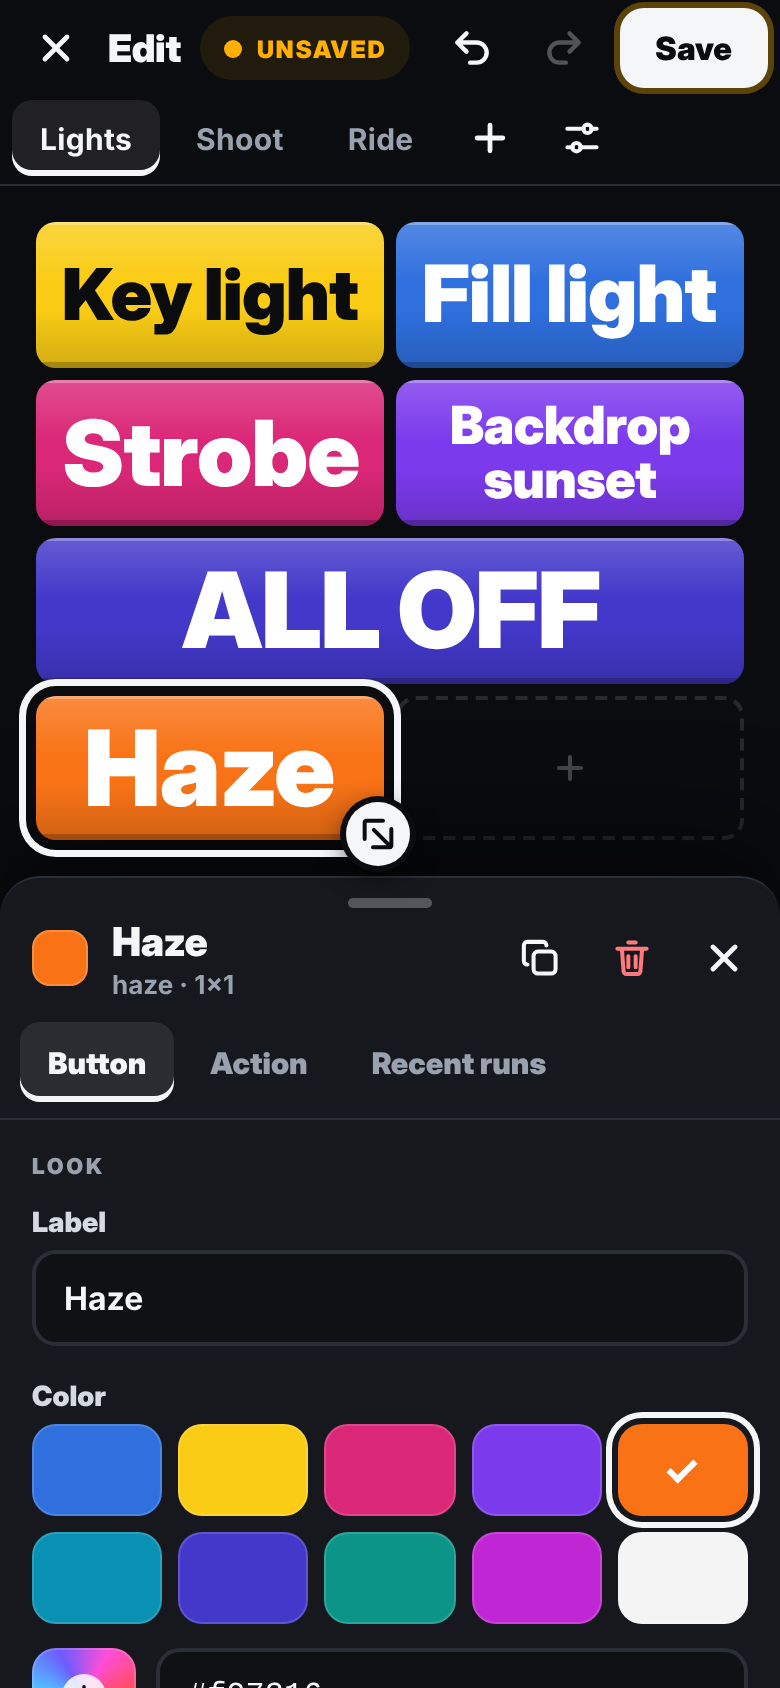
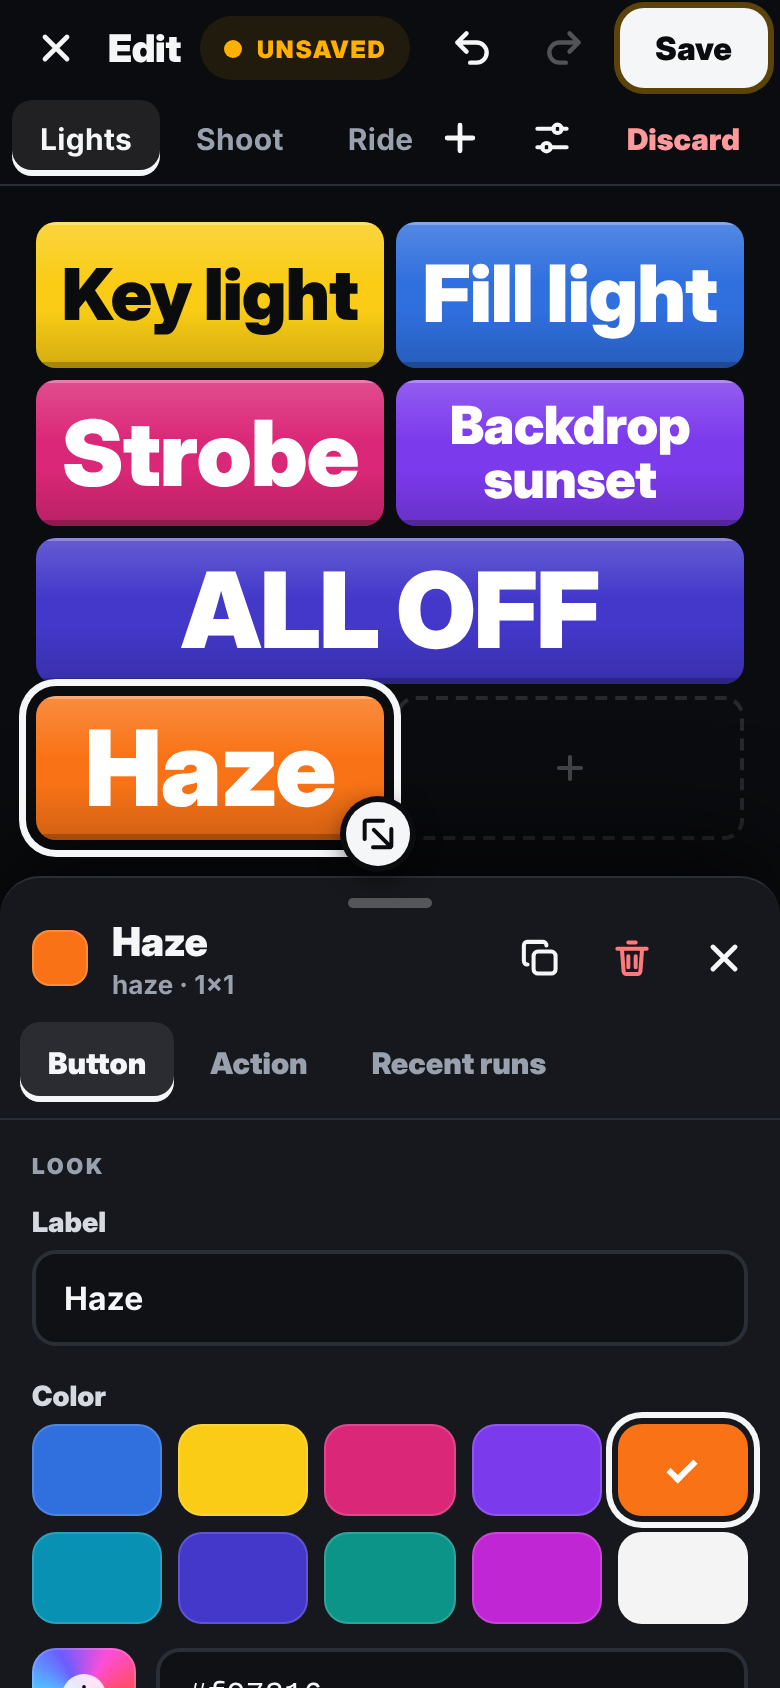
Edit mode: fix adversarial review findings
Verified checkpoint: typecheck clean, 212 bun tests, 213 Playwright tests.

- 3-way merge (per pad/button, identity-tracked) for host config changes and 409 conflicts;
  auto-merges one-sided changes as one undoable step, per-item mine/theirs for true conflicts
- Draft persisted per host on the device; restore offered (merged against the current host config)
- Lost save responses and lagging-socket echoes recognized; PUT timeout with landed-check
- Host refuses (409) to overwrite a config file that changed, valid or not, unless force:true;
  re-checked right before rename
- Saving asks before it stops running buttons; running badges on the edit canvas
- New ids never reuse host ids; Save & run for unsaved buttons; shell<->program conversion that
  round-trips; env names validated in the schema; empty-arg warnings
- Destructive dialogs default to Cancel; discard undoable; key capture passes Cmd+S through

Claude-Session: https://claude.ai/code/session_01VFJgEf5Cb9vrKjmXAa6S2c

diff --git a/src/web/edit/EditMode.tsx b/src/web/edit/EditMode.tsx
@@ -56,11 +56,18 @@ const hasActions = (c: WireConfig): c is Config => c.pads.every((p) => p.buttons
 
 /** Compares configs as the host keeps them ($schema is the host's business). */
 const keyOf = ({ $schema: _s, ...c }: WireConfig) => stable(c);
+const problemCount = (c: Config) => {
+  const r = parseConfig(c);
+  return r.ok ? 0 : r.errors.length;
+};
 
-/** Revs remembered as old news (own saves, merged, seen). */
-const KNOWN_MAX = 64;
-/** A config fetched over HTTP is ahead of a lagging socket: what the socket says until it catches up is older. */
-const AHEAD_MS = 15_000;
+/** This session's own saves remembered (their echoes over the socket are not news). */
+const OWN_MAX = 32;
+/**
+ * The host's state learned over HTTP (a save's answer, a fetch) the socket hasn't delivered yet:
+ * what a lagging socket says until it gets there is older news. Waited for at most this long.
+ */
+const CATCH_UP_MS = 15_000;
 
 export function EditMode(p: EditModeProps) {
   const role = useStore(p.backend.snapshot, (s) => s.role);
@@ -140,17 +147,44 @@ function Session({ backend, padId, onExit }: EditModeProps) {
   const inFlight = useRef(false);
   /** Last snapshot rev looked at: only *changes* of the host config matter. */
   const seen = useRef(backend.snapshot.get().rev);
-  /** Revs that are old news: this session's saves (their echoes), configs merged or adopted. */
-  const known = useRef(new Set<string>(backend.snapshot.get().rev ? [backend.snapshot.get().rev!] : []));
+  /** Revs of this session's saves, oldest first: their echoes over the socket (late, or several) are not news. */
+  const own = useRef(new Set<string>());
+  const addOwn = (rev: string) => {
+    const o = own.current;
+    o.delete(rev);
+    o.add(rev);
+    while (o.size > OWN_MAX) o.delete(o.values().next().value!);
+  };
   /** Saves with no answer (timeout, dropped link): they may still turn up on the host. */
   const unsure = useRef<{ config: Config; key: string }[]>([]);
-  /** A rev fetched over HTTP the socket hasn't delivered yet (see AHEAD_MS). */
-  const ahead = useRef<{ rev: string; timer: ReturnType<typeof setTimeout> } | null>(null);
-  const noteRev = (rev: string) => {
-    const k = known.current;
-    k.delete(rev);
-    k.add(rev);
-    while (k.size > KNOWN_MAX) k.delete(k.values().next().value!);
+  /** Revs the socket delivered lately, newest last (seen as they come: renders may skip some). */
+  const recent = useRef<string[]>(backend.snapshot.get().rev ? [backend.snapshot.get().rev!] : []);
+  /** A rev learned over HTTP the socket hasn't delivered yet (see CATCH_UP_MS). */
+  const catchUp = useRef<{ rev: string; reached: boolean; timer: ReturnType<typeof setTimeout> } | null>(null);
+  useEffect(
+    () =>
+      backend.snapshot.subscribe((s) => {
+        const r = recent.current;
+        if (!s.rev || r.at(-1) === s.rev) return;
+        r.push(s.rev);
+        if (r.length > 32) r.shift();
+        if (catchUp.current?.rev === s.rev) catchUp.current.reached = true;
+      }),
+    [],
+  );
+  /** The host is at `rev` (we know it over HTTP): until the socket gets there, what it says is older. */
+  const awaitSocket = (rev: string) => {
+    clearTimeout(catchUp.current?.timer);
+    catchUp.current = null;
+    if (backend.snapshot.get().rev === rev || recent.current.includes(rev)) return;
+    catchUp.current = {
+      rev,
+      reached: false,
+      timer: setTimeout(() => {
+        catchUp.current = null;
+        syncHost();
+      }, CATCH_UP_MS),
+    };
   };
 
   // ---- the draft kept on this device ------------------------------------------------------
@@ -165,7 +199,7 @@ function Session({ backend, padId, onExit }: EditModeProps) {
   const keeping = useRef(!stored);
   useEffect(() => {
     const off = ed.store.subscribe(() => keeping.current && keeper.update(ed));
-    return () => (off(), keeper.dispose(), clearTimeout(ahead.current?.timer));
+    return () => (off(), keeper.dispose(), clearTimeout(catchUp.current?.timer));
   }, []);
 
   const draft = st.draft;
@@ -211,7 +245,8 @@ function Session({ backend, padId, onExit }: EditModeProps) {
 
   /** Our save is on the host as `rev` (its answer, or found there). */
   const landed = (sent: Config, rev: string) => {
-    noteRev(rev);
+    addOwn(rev);
+    awaitSocket(rev);
     unsure.current = [];
     setHostNow({ rev, config: sent });
     ed.saved(sent, rev);
@@ -220,29 +255,34 @@ function Session({ backend, padId, onExit }: EditModeProps) {
     setShowProblems(false);
   };
 
-  /** Fresh news from HTTP (the socket may be behind it). */
+  /** Fresh news over HTTP (the socket may be behind it). */
   const learn = (config: Config, rev: string) => {
-    noteRev(rev);
+    awaitSocket(rev);
     setHostNow({ rev, config });
-    clearTimeout(ahead.current?.timer);
-    ahead.current = null;
-    if (backend.snapshot.get().rev !== rev)
-      ahead.current = {
-        rev,
-        timer: setTimeout(() => {
-          ahead.current = null;
-          syncHost();
-        }, AHEAD_MS),
-      };
+  };
+
+  /** The host's config now, over HTTP. If the socket brought news meanwhile, ask once more: which is newer can't be told. */
+  const fetchHost = async () => {
+    for (let i = 0; ; i++) {
+      const before = backend.snapshot.get().rev;
+      const got = await backend.getConfig();
+      const after = backend.snapshot.get().rev;
+      if (i > 0 || after === before || after === got.rev) return got;
+    }
   };
 
   const applyMerge = (res: MergeResult, theirs: Config, rev: string) => {
-    noteRev(rev);
+    const before = problemCount(ed.state.draft);
     ed.applyMerge(res, theirs, rev);
     setMerging(null);
     setDismissed(null);
     const n = res.taken;
-    undoable(n ? `Merged ${n} change${n === 1 ? '' : 's'} from the host` : "Your draft is now based on the host's latest config");
+    // Both sides fine on their own can still clash (two new buttons on one square): say so.
+    const added = problemCount(res.config) - before;
+    undoable(
+      (n ? `Merged ${n} change${n === 1 ? '' : 's'} from the host` : "Your draft is now based on the host's latest config") +
+        (added > 0 ? `: ${added} problem${added === 1 ? '' : 's'} to fix` : ''),
+    );
   };
 
   /** The host's config is `theirs` now, and it's news: follow it, or merge it into unsaved changes. */
@@ -263,19 +303,23 @@ function Session({ backend, padId, onExit }: EditModeProps) {
     return unsure.current.find((u) => u.key === k);
   };
 
-  const busy = () => inFlight.current || !!merging || !!conflict || !!ask || !!stored;
+  /** A dialog is up: host changes wait until it's closed. A ref: timers and async steps call syncHost too. */
+  const dialogUp = useRef(false);
+  dialogUp.current = !!(merging || conflict || ask || stored);
+  const busy = () => inFlight.current || dialogUp.current;
   const syncHost = () => {
     if (busy()) return; // decided once that is over
     const s = backend.snapshot.get();
     if (!s.rev || !s.config || !hasActions(s.config) || s.rev === seen.current) return;
-    if (ahead.current) {
-      if (s.rev !== ahead.current.rev) return; // the socket still catching up: older than what we have
-      clearTimeout(ahead.current.timer);
-      ahead.current = null;
+    const c = catchUp.current;
+    if (c) {
+      if (!c.reached) return; // the socket hasn't got to what we know over HTTP yet: what it says is older
+      clearTimeout(c.timer);
+      catchUp.current = null;
     }
     seen.current = s.rev;
-    if (known.current.has(s.rev)) return; // our own save coming back, or already merged
-    noteRev(s.rev);
+    // In step, or our own save coming back (late, or one of several).
+    if (s.rev === ed.state.baseRev || own.current.has(s.rev)) return;
     const mine = ours(s.config);
     if (mine) {
       landed(mine.config, s.rev);
@@ -291,7 +335,7 @@ function Session({ backend, padId, onExit }: EditModeProps) {
   const startMerge = async () => {
     let got: { config: WireConfig; rev: string };
     try {
-      got = await backend.getConfig();
+      got = await fetchHost();
     } catch (e) {
       say(`Couldn't get the host's config: ${e instanceof Error ? e.message : String(e)}`, { tone: 'bad' });
       return;
@@ -351,7 +395,7 @@ function Session({ backend, padId, onExit }: EditModeProps) {
   const check = async (sent: Config): Promise<'sent' | 'older' | null> => {
     let got: { config: WireConfig; rev: string };
     try {
-      got = await backend.getConfig();
+      got = await fetchHost();
     } catch {
       return null;
     }
@@ -424,8 +468,8 @@ function Session({ backend, padId, onExit }: EditModeProps) {
   const overwrite = async (c: { rev: string; opts: SaveOpts }) => {
     setConflict(null);
     try {
-      const now = await backend.getConfig();
-      if (now.rev !== c.rev && !known.current.has(now.rev)) return setConflict({ rev: now.rev, again: true, opts: c.opts });
+      const now = await fetchHost();
+      if (now.rev !== c.rev && !own.current.has(now.rev)) return setConflict({ rev: now.rev, again: true, opts: c.opts });
     } catch {
       /* can't tell: the save says */
     }
@@ -436,12 +480,14 @@ function Session({ backend, padId, onExit }: EditModeProps) {
     setModal(null);
     let to = { config: hostNowRef.current.config, rev: hostNowRef.current.rev };
     try {
-      const got = await backend.getConfig();
+      const got = await fetchHost();
       if (hasActions(got.config)) (learn(got.config, got.rev), (to = { config: got.config, rev: got.rev }));
     } catch {
       /* offline: back to the last known host config */
     }
     ed.discard(to.config, to.rev);
+    // A save of the thrown-away draft turning up later is news then, not "saved".
+    unsure.current = [];
     setHostErrors(null);
     setSaveError(null);
     deselect();

diff --git a/e2e/edit-sync.spec.ts b/e2e/edit-sync.spec.ts
@@ -169,6 +169,35 @@ test("two quick saves on a lagging socket: their late echoes aren't news (no rev
   expect(labels()).toEqual(['Lamp v3', 'Boom v2', 'Record']);
 });
 
+test('a hand edit undone again (the file back to the very same bytes) is followed too, with or without unsaved changes', async ({ page, hasTouch }) => {
+  await edit(page);
+  const before = readFileSync(host.configPath, 'utf8');
+  handEdit((c) => (c.pads[0]!.buttons[1]!.label = 'Boom (typo)'));
+  await expect(item(page, 'boom')).toContainText('Boom (typo)');
+  writeFileSync(host.configPath, before);
+  await expect(item(page, 'boom')).not.toContainText('typo');
+  await relabel(page, hasTouch, 'lamp', 'Mine');
+  handEdit((c) => (c.pads[0]!.buttons[1]!.label = 'Boom (typo)'));
+  await expect(item(page, 'boom')).toContainText('Boom (typo)');
+  writeFileSync(host.configPath, before);
+  await expect(item(page, 'boom')).not.toContainText('typo');
+  await expect(page.getByTestId('field-label')).toHaveValue('Mine');
+  await page.getByTestId('edit-save').click();
+  await expect(status(page)).toHaveAttribute('data-state', 'clean');
+  expect(labels()).toEqual(['Mine', 'Boom', 'Record']);
+});
+
+test('two new buttons on one square (mine, and one added by hand) merge, and the clash is pointed out', async ({ page, hasTouch }) => {
+  await edit(page);
+  await tap(page, hasTouch, 'cell-0-1');
+  await page.getByTestId('field-label').fill('Mine');
+  handEdit((c) => c.pads[0]!.buttons.push({ id: 'theirs', label: 'Theirs', x: 0, y: 1, action: { type: 'shell', script: 'echo theirs' } }));
+  await expect(page.getByTestId('toast')).toContainText('Merged 1 change from the host: 1 problem to fix');
+  await expect(item(page, 'theirs')).toBeVisible();
+  await expect(item(page, 'mine')).toBeVisible();
+  await expect(status(page)).toHaveText('1 problem');
+});
+
 test('a save that never gets an answer gives up after 10 s, asks the host whether it landed, and the editor works again', async ({ page, hasTouch }) => {
   test.setTimeout(75_000);
   await edit(page);
@@ -272,7 +301,7 @@ test('a new button never takes the id of a deleted host button; unsaved ones get
   await page.getByTestId('field-script').fill('echo solo v2');
   await page.getByTestId('editor-tab-runs').click();
   await expect(page.getByTestId('run-test')).toHaveCount(0);
-  await expect(page.getByTestId('run-log')).toContainText('Run now would run the old one');
+  await expect(page.getByTestId('run-log')).toContainText('save first, or Run now would run the old version');
   await page.getByTestId('run-save').click();
   await expect(page.getByTestId('run-item').first()).toContainText('solo v2', { timeout: 8000 });
   await expect(page.getByTestId('run-test')).toBeVisible();

diff --git a/src/web/edit/RunLog.tsx b/src/web/edit/RunLog.tsx
@@ -169,9 +169,9 @@ export function RunLog(p: { backend: Backend; padId: string; buttonId: string; o
       </div>
       <p class="ed-hint">
         {!p.onHost
-          ? `The host has no button “${p.padId}/${p.buttonId}” yet: Save & run saves your draft, then runs it (a new or renamed button starts a fresh history).`
+          ? `The host has no button “${p.padId}/${p.buttonId}” yet: save first. Save & run does both: it saves your draft, then runs this button (a new or renamed button starts a fresh history).`
           : p.changed
-            ? 'Unsaved changes: Save & run saves your draft (all of it), then runs the saved version. Run now would run the old one.'
+            ? 'Unsaved changes: save first, or Run now would run the old version on the host. Save & run saves your draft (all of it), then runs the saved version.'
             : 'Run now runs the action on the host right away (no hold or confirm).'}
       </p>
       {note && <div class="ed-callout">{note}</div>}

diff --git a/src/web/edit/problems.ts b/src/web/edit/problems.ts
@@ -2,7 +2,7 @@
  * Validation errors ("pads.0.buttons.2.action.command: …", from parseConfig or the host's 400)
  * mapped onto the draft: which pad, which button, which field, in plain words.
  */
-import type { Config } from '../../core/config.ts';
+import { ENV_NAME_MESSAGE, type Config } from '../../core/config.ts';
 
 export interface Problem {
   pad: number | null;
@@ -57,6 +57,7 @@ export function pretty(msg: string): string {
   if (/^duplicate button id/.test(msg)) return 'Another button on this pad has this id';
   if (/^duplicate pad id/.test(msg)) return 'Another pad has this id';
   if (msg === 'letters, digits, _ and - only') return 'Letters, digits, _ and - only';
+  if (msg === ENV_NAME_MESSAGE) return `${msg.charAt(0).toUpperCase()}${msg.slice(1)}`;
   return msg;
 }
 

diff --git a/docs/DESIGN.md b/docs/DESIGN.md
@@ -80,7 +80,7 @@ bun src/server/main.ts [--config PATH] [--secrets PATH] [--host H] [--port N]
 | GET | `/` | none | the web app (Bun HTML import of `src/web/index.html`) |
 | GET | `/api/health` | none | `{ok:true, version, protocol}`; no host name (anyone can ask, even a DNS-rebinding page; `hello` has it) |
 | GET | `/api/config` | any | `{config: WireConfig, rev}` (redacted for press) |
-| PUT | `/api/config` | admin | body `{config, baseRev}` → 200 `{rev}`; 400 `{errors:string[]}`; 409 `{rev}` if `baseRev` ≠ current |
+| PUT | `/api/config` | admin | body `{config, baseRev, force?}` → 200 `{rev}`; 400 `{errors:string[]}`; 409 `{rev, invalid?, errors?}` if `baseRev` ≠ the rev of the file's bytes now, valid or not (`invalid: true` + the file's `errors` when they aren't a valid config). `force: true` skips the check (replace whatever is there) |
 | GET | `/api/state` | any | `{states: StateMap, serverNow}` |
 | POST | `/api/press/:pad/:button` | any | → `{result: PressResult, state}`; 404 unknown button. For curl/Stream Deck/etc. |
 | GET | `/api/runs?pad=&button=` | admin | `RunRecord[]`, newest first, last 20 per button (both params optional) |
@@ -107,6 +107,11 @@ See `ServerMsg`/`ClientMsg` in `src/core/protocol.ts`.
 - UI saves: validate with `parseConfig`, write atomically (temp file + rename), compact output
   (omit button fields equal to their schema defaults; 2-space JSON). A new file is created 0600 (it
   holds commands and their env); a rewrite keeps the file's mode.
+- A save's `baseRev` must name the file's bytes as they are at that moment, valid config or not: a
+  hand edit with a typo, or one caught mid-write by a non-atomic editor, is someone's work too, so
+  it gets a 409 (`invalid: true`), never a silent overwrite. The file is read again right before
+  the rename; a write that landed meanwhile stays and the save gets a 409. `force: true` (the user
+  chose to overwrite) skips both checks.
 - A symlinked config is read and watched through its path: saves replace the link's current
   target; edits of the target and replacing the link itself (`sed -i`) are both picked up. Relative
   paths (actions, secrets) resolve against the directory of the file it pointed to at startup.
@@ -118,7 +123,8 @@ See `ServerMsg`/`ClientMsg` in `src/core/protocol.ts`.
 - `exec`: `Bun.spawn([command, ...args])`. `shell`: POSIX `[shell ?? $SHELL ?? '/bin/sh', '-c', script]`;
   Windows `[shell ?? %ComSpec% ?? 'cmd.exe', '/d', '/s', '/c', script]`.
 - `cwd` defaults to the config file's directory; relative `cwd` resolves against it too.
-- env = host env + action `env` + `BUTTPAD_PAD`, `BUTTPAD_BUTTON`, `BUTTPAD_RUN_ID`, `BUTTPAD_LABEL`.
+- env = host env + action `env` (names `[A-Za-z_][A-Za-z0-9_]*`) + `BUTTPAD_PAD`, `BUTTPAD_BUTTON`,
+  `BUTTPAD_RUN_ID`, `BUTTPAD_LABEL`.
 - stdin ignored. Spawn detached (POSIX: own process group) so kill hits the whole tree:
   SIGTERM to `-pid`, then SIGKILL after 2 s. Windows: `taskkill /T /F /PID`. A killed run is
   *dying* until its group is seen empty (on Linux, zombies awaiting their reaper don't count) or got
@@ -265,9 +271,39 @@ the handler.
   Duplicate, delete.
 - Pad management: add, rename, delete, reorder, cols/rows (shrinking that would clip buttons is
   refused with an explanation).
-- Edits are a local draft until **Save** (PUT with `baseRev`). Unsaved indicator. Validation
-  errors from the host are shown. 409 → offer reload/overwrite. Discard reverts.
-- Admin extra: per-button run log (from `/api/runs`) to see why something failed.
+- Edits are a local draft until **Save** (PUT with `baseRev`). Unsaved indicator; **Discard**
+  (undoable) in plain sight on every layout. Validation errors from the host are shown. Dialogs that
+  could destroy work focus their safe way out (Cancel / Keep editing).
+- The draft is kept on the device (localStorage, per host origin; written right after each change
+  and when the page is hidden) until saved or discarded: a reload, an evicted tab, a rotated token
+  (401) or a pairing link opened in the tab don't lose it (a pairing link opened while the draft is
+  dirty asks first). The next edit session, and run mode for an admin, offers it back ("Restore
+  unsaved changes from 10:42?"), merged with the host's config as it is by then.
+- The host config changing under the draft (hand edit, another admin): with nothing unsaved it is
+  simply taken. Under unsaved changes it is merged: a three-way merge (`src/web/edit/merge.ts`;
+  base = the config the draft started from, mine = the draft, theirs = the host's now) at pad and
+  button granularity. What changed on one side only merges on its own, as one undoable step
+  ("Merged 2 changes from the host"). The same pad or button changed on both sides, or deleted on
+  one and changed on the other, is listed, and the user picks mine or theirs per item. Identity
+  follows the draft's renames (a pad or button id changed in the draft still gets their changes).
+- This session's own saves coming back over the socket (late, or several in a row) are not news;
+  neither is what a lagging socket says before it gets to a state already learned over HTTP.
+- A save with no answer within 10 s, or whose link dropped, is checked with `GET /api/config`: if
+  the host has exactly what was sent, it saved (also when the socket's echo shows it later). A 409
+  gets the same check, then offers: merge their changes (fetched fresh), overwrite with mine
+  (`force`), or cancel. A config file on the host that is currently invalid is replaced only after
+  the user confirms (`force`).
+- Saving asks first when it would stop running actions (a running button deleted, or its or its
+  pad's id changed): "This will stop: “Record” (running 2 min)". The canvas marks running buttons;
+  the id fields say what an id change breaks (`?pad=` links, `/api/press/…`, run histories).
+- New buttons never take an id the host has on that pad (e.g. one deleted in the draft): until the
+  save, that id still names the host's button. Duplicates don't copy the key binding.
+- Shell ⇄ Program switching keeps the meaning: only a plain word list becomes argv (no quotes, `~`,
+  `NAME=value`, globs, `$`, shell syntax or builtins); anything else becomes `sh -c SCRIPT`, which
+  switches back unwrapped. argv becomes a properly quoted command line. Empty arguments get a
+  warning (allowed); env names are checked as typed.
+- Admin extra: per-button run log (from `/api/runs`) to see why something failed. **Run now** for a
+  saved, unchanged button; otherwise **Save & run** (saves the draft, then runs the saved version).
 
 ## Testing
 
